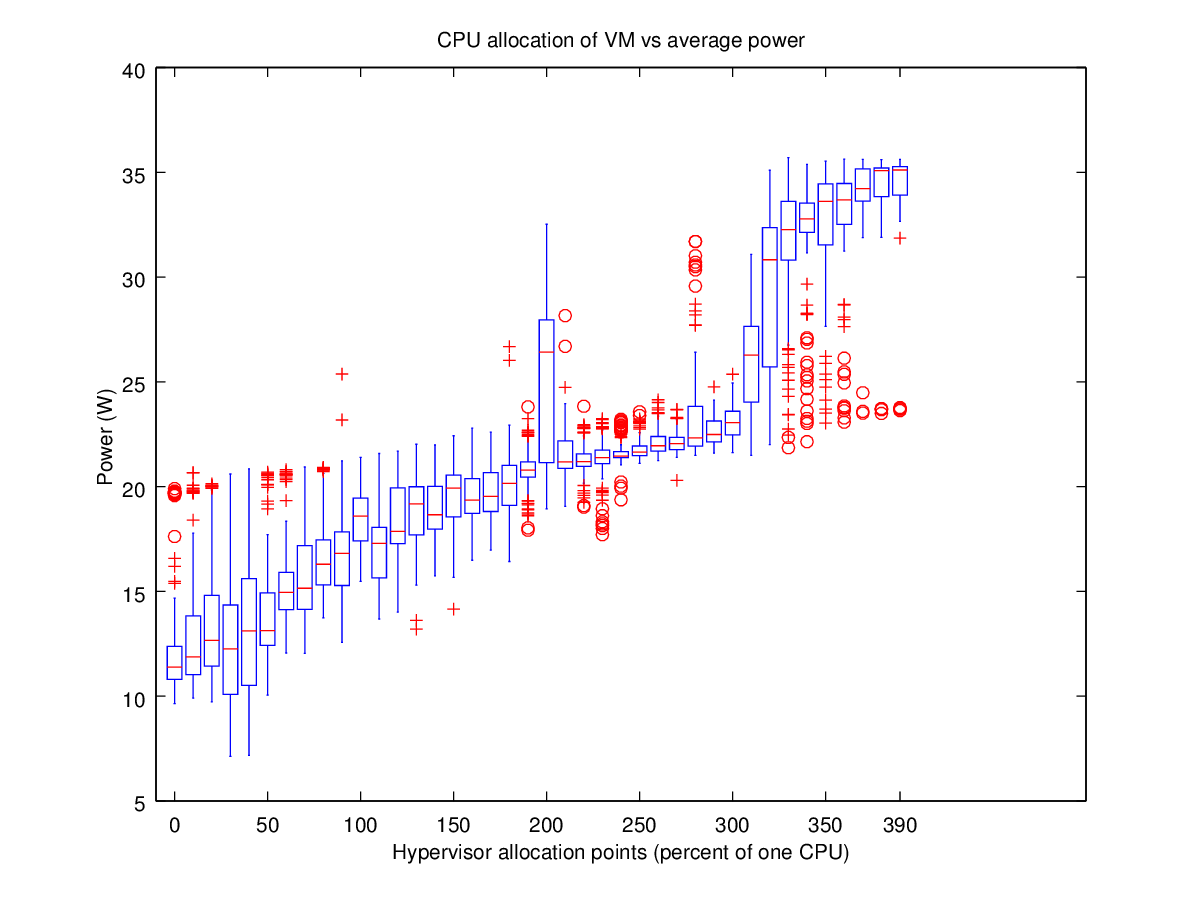
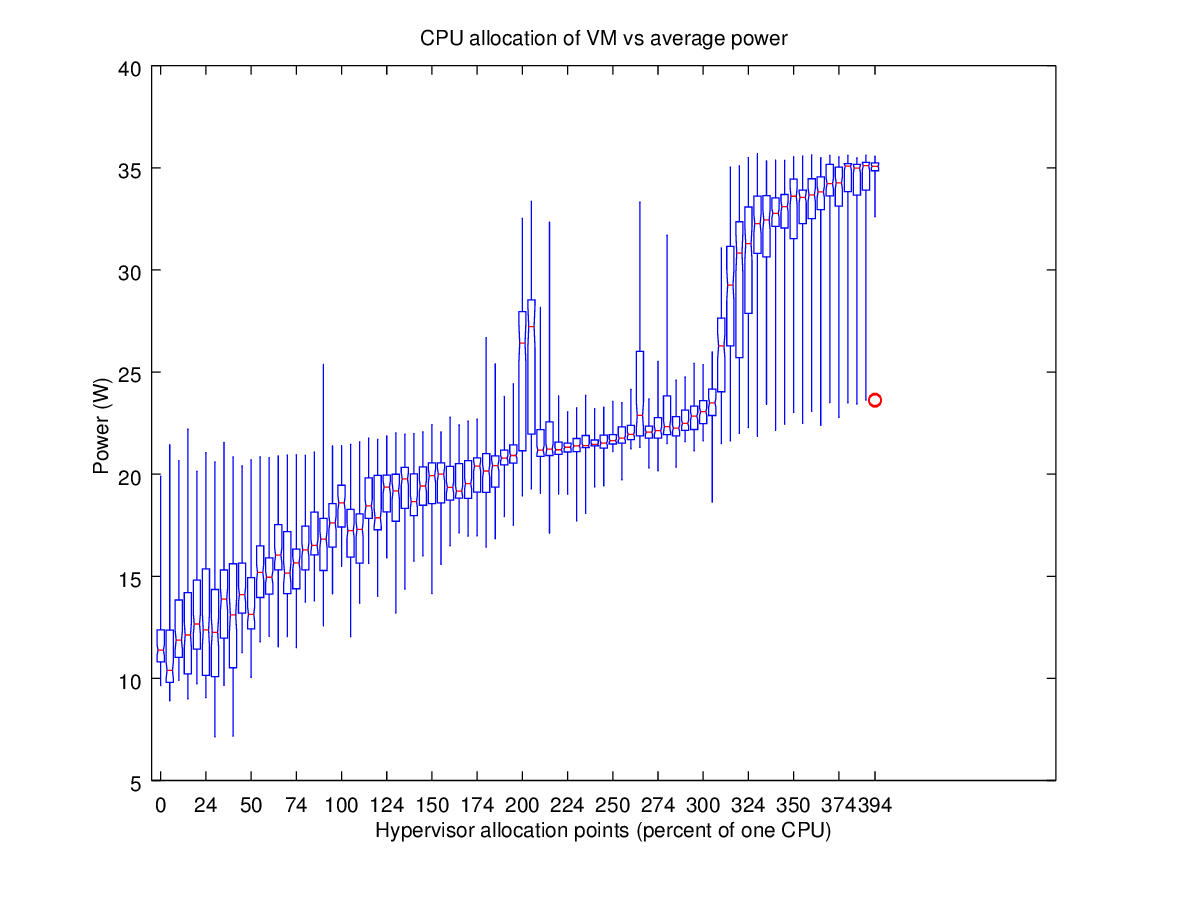
Modified plots and deleted png files from repo

Changed region(s): [[0.0617, 0.0311, 0.8942, 0.9644]]

diff --git a/hypervisor/power_output/power_output_plotter.m b/hypervisor/power_output/power_output_plotter.m
@@ -1,5 +1,5 @@
-b=input('Type the name: ','s')
-%b='855178272_1434669946';
+%b=input('Type the name: ','s')
+b='855178272_1434669946';
 
 [status, output] = system(['cat ./' b '.log | grep "Starting power gadget at " | cut -d \  -f 5']);
 assert(status == 0);
@@ -37,14 +37,25 @@ end
 
 [v,i] = sort(stepValues);
 
-plotI = i(1:10:numSteps);
-plotV = v(1:10:numSteps);
-boxplot(windows(plotI));
+plotI = i(1:5:numSteps);
+plotV = v(1:5:numSteps);
+[s,h] = boxplot(windows(plotI),1,['x','o'],1,10);
+mx = -Inf;
+mn = Inf;
+for i = 1:length(h.whisker)
+  if(max(get(h.whisker(i),'ydata')) > mx)
+    mx = max(get(h.whisker(i),'ydata'));
+  end
+  if(min(get(h.whisker(i),'ydata')) < mn)
+    mn = min(get(h.whisker(i),'ydata'));
+  end
+end
+axis([0 length(plotI)+1 mn mx])
 ticks = unique([1:5:length(plotI) length(plotI)]);
 
 set(gca(),'xtick', ticks, 'xticklabel', plotV(ticks) );
 title('CPU allocation of VM vs average power')
 ylabel('Power (W) ')
 xlabel('Hypervisor allocation points (percent of one CPU)')
-print([b '.png'],'-S1280x1024')
-print('hypervisor.png','-S1280x1024')
+print([b '.pdf'],'-S1280x1024')
+print('hypervisor.pdf','-S1280x1024')

diff --git a/signal_insert_delays/power_output/power_output_plotter.m b/signal_insert_delays/power_output/power_output_plotter.m
@@ -1,5 +1,5 @@
-b=input('Type the name: ','s')
-%b='244991366_1434682629';
+%b=input('Type the name: ','s')
+b='244991366_1434682629';
 
 [status, output] = system(['cat ./' b '.log | grep "Starting power gadget at " | cut -d \  -f 5']);
 assert(status == 0);
@@ -34,14 +34,25 @@ for i = 1:numSteps
 end
 
 [v,i] = sort(stepValues);
-plotI = i(1:10:numSteps);
-plotV = v(1:10:numSteps);
-boxplot(windows(plotI));
+plotI = i(1:5:numSteps);
+plotV = v(1:5:numSteps);
+[s,h] = boxplot(windows(plotI),1,['x','o'],1,10);
+mx = -Inf;
+mn = Inf;
+for i = 1:length(h.whisker)
+  if(max(get(h.whisker(i),'ydata')) > mx)
+    mx = max(get(h.whisker(i),'ydata'));
+  end
+  if(min(get(h.whisker(i),'ydata')) < mn)
+    mn = min(get(h.whisker(i),'ydata'));
+  end
+end
+axis([0 length(plotI)+1 mn mx])
 ticks = unique([1:5:length(plotI) length(plotI)]);
 
 set(gca(),'xtick', ticks, 'xticklabel', 100*plotV(ticks) );
 title('CPU duty cycle vs average power')
 ylabel('Power (W) ')
 xlabel('Duty cycle (percent)')
-print([b '.png'],'-S1280x1024')
-print('insert_delays.png','-S1280x1024')
+print([b '.pdf'],'-S1280x1024')
+print('insert_delays.pdf','-S1280x1024')

diff --git a/powerclamp/power_output/power_output_plotter.m b/powerclamp/power_output/power_output_plotter.m
@@ -1,5 +1,5 @@
-b=input('Type the name: ','s')
-%b='562281316_1435616496';
+%b=input('Type the name: ','s')
+b='562281316_1435616496';
 
 [status, output] = system(['cat ./' b '.log | grep "Starting power gadget at " | cut -d \  -f 5']);
 assert(status == 0);
@@ -34,14 +34,25 @@ for i = 1:numSteps
 end
 
 [v,i] = sort(100-stepValues);
-plotI = i(1:10:numSteps);
-plotV = v(1:10:numSteps);
-boxplot(windows(plotI));
+plotI = i(1:5:numSteps);
+plotV = v(1:5:numSteps);
+[s,h] = boxplot(windows(plotI),1,['x','o'],1,10);
+mx = -Inf;
+mn = Inf;
+for i = 1:length(h.whisker)
+  if(max(get(h.whisker(i),'ydata')) > mx)
+    mx = max(get(h.whisker(i),'ydata'));
+  end
+  if(min(get(h.whisker(i),'ydata')) < mn)
+    mn = min(get(h.whisker(i),'ydata'));
+  end
+end
+axis([0 length(plotI)+1 mn mx])
 ticks = unique([1:5:length(plotI) length(plotI)]);
 
 set(gca(),'xtick', ticks, 'xticklabel', plotV(ticks) );
 title('CPU duty cycle vs average power')
 ylabel('Power (W) ')
 xlabel('Duty cycle (percent)')
-print([b '.png'],'-S1280x1024')
-print('powerclamp.png','-S1280x1024')
+print([b '.pdf'],'-S1280x1024')
+print('powerclamp.pdf','-S1280x1024')

diff --git a/rapl/power_output/power_output_plotter.m b/rapl/power_output/power_output_plotter.m
@@ -1,5 +1,5 @@
-b=input('Type the name: ','s')
-%b='355660772_1434773393';
+%b=input('Type the name: ','s')
+b='355660772_1434773393';
 
 [status, output] = system(['cat ./' b '.log | grep "Starting power gadget at " | cut -d \  -f 5']);
 assert(status == 0);
@@ -37,14 +37,25 @@ end
 
 [v,i] = sort(stepValues);
 
-plotI = i(1:10:numSteps);
-plotV = v(1:10:numSteps);
-boxplot(windows(plotI));
+plotI = i(1:5:numSteps);
+plotV = v(1:5:numSteps);
+[s,h] = boxplot(windows(plotI),1,['x','o'],1,10);
+mx = -Inf;
+mn = Inf;
+for i = 1:length(h.whisker)
+  if(max(get(h.whisker(i),'ydata')) > mx)
+    mx = max(get(h.whisker(i),'ydata'));
+  end
+  if(min(get(h.whisker(i),'ydata')) < mn)
+    mn = min(get(h.whisker(i),'ydata'));
+  end
+end
+axis([0 length(plotI)+1 mn mx])
 ticks = unique([1:5:length(plotI) length(plotI)]);
 
 set(gca(),'xtick', ticks, 'xticklabel', plotV(ticks) );
 title('RAPL package limit vs average power')
 ylabel('Power (W) ')
 xlabel('RAPL package limit (W)')
-print([b '.png'],'-S1280x1024')
-print('rapl.png','-S1280x1024')
+print([b '.pdf'],'-S1280x1024')
+print('rapl.pdf','-S1280x1024')

diff --git a/cpufreq/power_output/power_output_plotter.m b/cpufreq/power_output/power_output_plotter.m
@@ -1,5 +1,5 @@
-b=input('Type the name: ','s')
-%b='731046106_1435688014';
+%b=input('Type the name: ','s')
+b='731046106_1435688014';
 
 [status, output] = system(['cat ./' b '.log | grep "Starting power gadget at " | cut -d \  -f 5']);
 assert(status == 0);
@@ -37,12 +37,22 @@ end
 
 plotI = i;
 plotV = v;
-boxplot(windows(plotI),1,['+','o'],1,4);
-
+[s,h] = boxplot(windows(plotI),1,['x','o'],1,10);
+mx = -Inf;
+mn = Inf;
+for i = 1:length(h.whisker)
+  if(max(get(h.whisker(i),'ydata')) > mx)
+    mx = max(get(h.whisker(i),'ydata'));
+  end
+  if(min(get(h.whisker(i),'ydata')) < mn)
+    mn = min(get(h.whisker(i),'ydata'));
+  end
+end
+axis([0 length(plotI)+1 mn mx])
 ticks = [1:2:length(plotI)];
 set(gca(),'xtick', ticks, 'xticklabel', plotV(ticks)/1e6 );
 title('CPU frequency vs average power')
 ylabel('Power (W) ')
 xlabel('CPU frequency (GHz)')
-print([b '.png'],'-S1280x1024')
-print('cpufreq.png','-S1280x1024')
+print([b '.pdf'],'-S1280x1024')
+print('cpufreq.pdf','-S1280x1024')

diff --git a/stress/power_output/power_output_plotter.m b/stress/power_output/power_output_plotter.m
@@ -1,5 +1,5 @@
-b=input('Type the name: ','s')
-%b='338766383_1435434847';
+%b=input('Type the name: ','s')
+b='338766383_1435434847';
 
 [status, output] = system(['cat ./' b '.log | grep "Starting power gadget at " | cut -d \  -f 5']);
 assert(status == 0);
